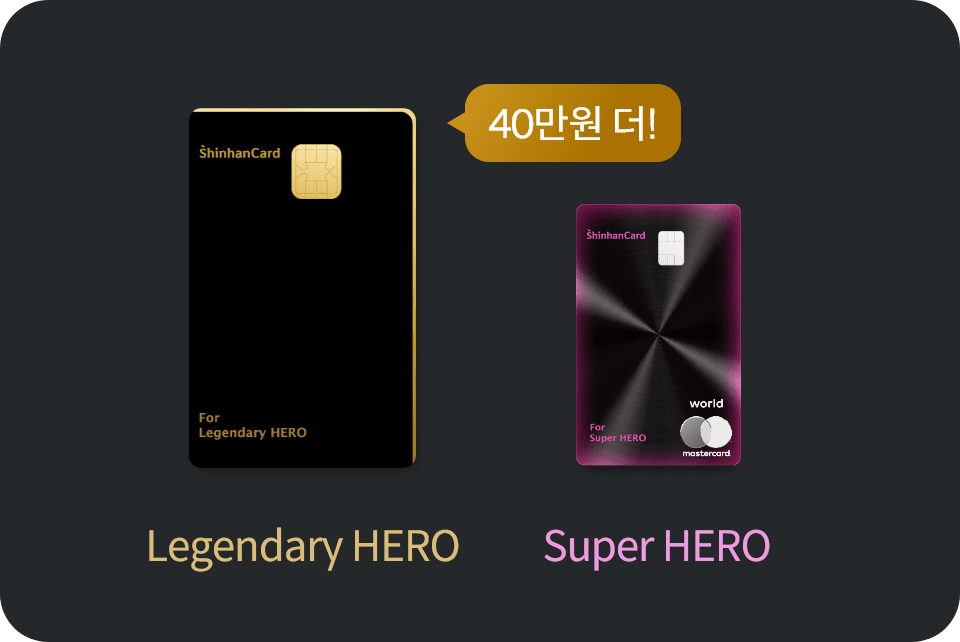
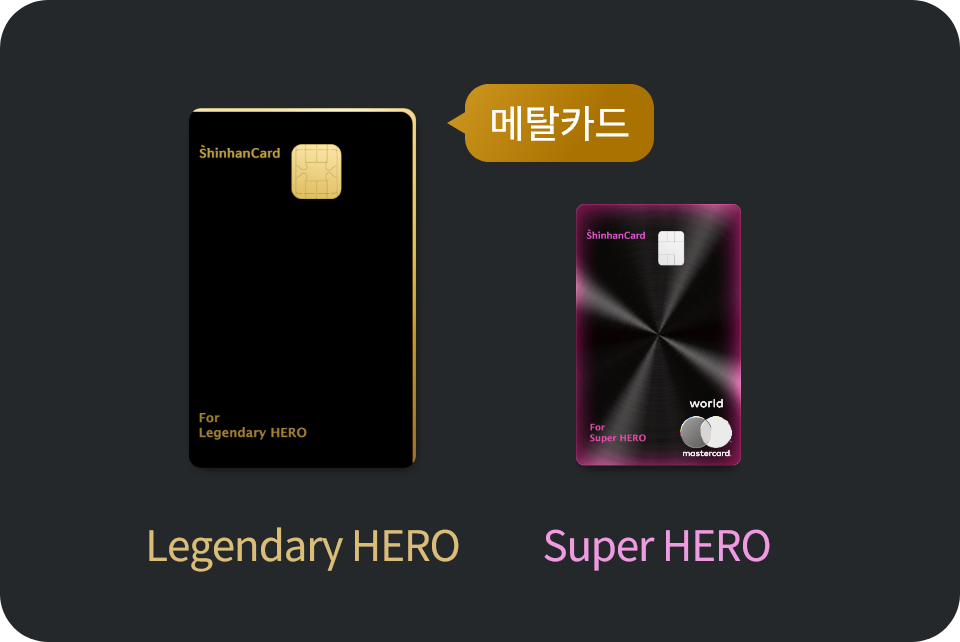
해외주식 : 히어로멤버십 등급별 혜택 수정

Changed region(s): [[0.5, 0.1246, 0.7188, 0.2492]]

diff --git a/src/assets/scss/_main.scss b/src/assets/scss/_main.scss
@@ -2905,12 +2905,28 @@ body.dark {
                     }
                 }
                 .text_box {
-                    padding-top: 20rem;
-                    font-size: 14rem;
-                    color: #ccc;
-                    text-align: center;
-                    line-height: 20rem;
-                    letter-spacing: -0.35rem;
+                    padding-top: 12rem;
+                    ul {
+                        li {
+                            margin-top: 8rem;
+                            padding-left: 9rem;
+                            position: relative;
+                            font-size: 13rem;
+                            color: #999;
+                            line-height: 18rem;
+                            letter-spacing: -0.33rem;
+                            &:before {
+                                position: absolute;
+                                top: 7rem;
+                                left: 0;
+                                width: 3rem;
+                                height: 3rem;
+                                border-radius: 50%;
+                                background: #999;
+                                content: '';
+                            }
+                        }
+                    }
                 }
             }
         }
@@ -8129,4 +8145,71 @@ body.dark .grade_list {
             }
         }
     }
+}
+
+//국내주식 - 영웅클럽
+.domestic_main {
+    header {
+        padding: 0;
+        height: 56rem;
+        background: #0d0e2a;
+        h1 {
+            padding-top: 20rem;
+            font-size: 18rem;
+            color: #ccc;
+            font-weight: 500;
+            text-align: center;
+            line-height: 26rem;
+            letter-spacing: -0.36rem;
+        }
+        .close {
+            top: 18rem;
+            button {
+                background-image: url(../../images/hc/icon_gray_close.png);
+            }
+        }
+    }
+    .main_visual {
+        position: relative;
+        height: 432rem;
+        background: #0d0e2a;
+        .sun {
+            box-shadow: 0 0 20px 10px rgba(255, 255, 0, 0.5); /* 노란색 후광 효과 */
+        }
+        .visual_bottom {
+            margin-left: -230rem;
+            position: absolute;
+            bottom: 0;
+            left: 50%;
+            width: 460rem;
+            height: 190px;
+            box-shadow: inset 0 3px 20px 0 rgba(255, 172, 236, 0.3);
+            background-image: linear-gradient(to bottom, #c862fa -26%, #994efc 67%);
+            border-radius: 100% 100% 0 0 / 100%;
+            .user_dday {
+                padding-top: 83rem;
+                font-size: 16rem;
+                color: #e7d9ff;
+                text-align: center;
+                line-height: 23rem;
+                .day_info {
+                    font-size: 18rem;
+                    color: #ffffff;
+                    .bold,
+                    .day_num {
+                        font-size: inherit;
+                        color: inherit;
+                        font-weight: bold;
+                    }
+                }
+            }
+        }
+    }
+    .glow-text {
+  color: white; /* 빛나는 텍스트 색상 */
+      text-shadow: 0 0 5px #fff, /* 가장 안쪽 빛 */
+                   0 0 10px #fff,
+                   0 0 15px #007bff, /* 파란빛 */
+                   0 0 20px #007bff;
+}
 }

diff --git a/src/html/main_domestic.html b/src/html/main_domestic.html
@@ -8,76 +8,21 @@
     <title>영웅클럽</title>
     <link rel="stylesheet" href="../assets/css/hc/default.css">
     <link rel="stylesheet" href="../assets/css/hc/swiper-bundle.min.css">
-    <style>
-        /*
-          .progress-ring {
-      width: 120px;
-      height: 120px;
-      border-radius: 50%;
-      background: conic-gradient(
-        #00f 0%,
-        #0ff 30%,
-        lightgray 30%,
-        lightgray 100%
-      );
-      display: flex;
-      align-items: center;
-      justify-content: center;
-    }
-
-    .inner-circle {
-      width: 96px;
-      height: 96px;
-      background-color: white;
-      border-radius: 50%;
-    }
-      */
-       .progress-ring {
-      width: 150px;
-      height: 150px;
-    }
-    svg {
-      transform: rotate(-90deg);
-    }
-    .bg,
-    .progress {
-      fill: none;
-      stroke-width: 12;
-    }
-    .bg {
-      stroke: #e0e0e0;
-    }
-    .progress {
-      stroke: url(#grad);
-      stroke-linecap: round;
-      stroke-dasharray: 339.292;
-      stroke-dashoffset: 339.292;
-      transition: stroke-dashoffset 1s ease-out;
-    }
-    .center-text {
-      position: absolute;
-      top: 50%;
-      left: 50%;
-      transform: translate(-50%, -50%);
-      font-weight: bold;
-      font-size: 1.2rem;
-    }
-    .wrapper {
-      position: relative;
-      width: 150px;
-      height: 150px;
-    }
-    </style>
 </head>
 <body>
-    <div class="wrap main">
+    <div class="wrap main domestic_main">
         <header>
             <h1>영웅클럽</h1>
             <div class="close"><button type="button">닫기</button></div>
         </header>
+        <div class="main_visual">
+            <div class="sun"></div>
+            <div class="visual_bottom">
+                <p class="user_dday">$키움$님과 키움이 함께한 기간은<br><span class="day_info"><span class="bold">D+<span class="day_num">1004</span>일</span> 됐어요</span></p>
+            </div>
+        </div>
         <div class="contents">
-            <p class="period">영웅님과 키움이 함께한 기간은 1년 1개월차 입니다.</p>
-            <div class="main_visual"></div>
+            <p class="period glow-text">영웅님과 키움이 함께한 기간은 1년 1개월차 입니다.</p>
 
             <dl class="main_benefit">
                 <dt onclick="popup.open('popup_monnth1');">이번달 지급 혜택내역을 확인해보세요</dt>

diff --git a/src/html/pub_guide/publish_list.html b/src/html/pub_guide/publish_list.html
@@ -435,8 +435,16 @@
                         </tr>
                         <tr class="complete">
                             <td></td>
+                            <td class="text-left"><a href="../popup_benefit_guide_s.html" target="_blank">popup_benefit_guide_s</a></td>
+                            <td class="text-left">등급별 혜택 안내 - SS 이하 유저</td>
+                            <td>바텀시트</td>
+                            <td></td>
+                            <td class="text-left">추가</td>
+                        </tr>
+                        <tr class="complete">
+                            <td></td>
                             <td class="text-left"><a href="../popup_benefit_guide.html" target="_blank">popup_benefit_guide</a></td>
-                            <td class="text-left">등급별 혜택 안내</td>
+                            <td class="text-left">등급별 혜택 안내 - SS 이상 유저</td>
                             <td>바텀시트</td>
                             <td></td>
                             <td class="text-left">수정</td>

diff --git a/src/html/popup_legendary_issuance.html b/src/html/popup_legendary_issuance.html
@@ -23,9 +23,10 @@
                 <div class="pop_body">
                     <div class="graph_img"><img src="../assets/images/hc/img_popup_card_issuance.png"></div>
                     <div class="text_box">
-                        카드리워드 지급은 1인 1카드 기준이며,<br>
-                        카드 변경은 기존 카드 해지 후,<br>
-                        신규 발급으로 처리 가능해요.
+                        <ul>
+                            <li>메탈카드 발급비 최초 1회에 한하여 지원하며 발급리워드와 같이 지급됩니다.</li>
+                            <li>카드 리워드 지급은 1인 1카드 기준이며, 카드 변경은 기존 카드 해지 후, 신규 발급으로 처리 가능합니다.</li>
+                        </ul>
                     </div>
                     <div class="btm_btns">
                         <ul>

diff --git a/src/html/popup_benefit_guide_s.html b/src/html/popup_benefit_guide_s.html
@@ -33,8 +33,8 @@
                             <div class="tab_wrapper tab_deth">
                                 <ul class="tab_list"><!-- 현재 등급 클래스 = 'my' 추가 -->
                                     <li class="a">A</li>
-                                    <li class="s">S</li>
-                                    <li class="ss my">SS</li>
+                                    <li class="s my">S</li>
+                                    <li class="ss">SS</li>
                                     <li class="sss">SSS</li>
                                     <li class="l">L</li>
                                 </ul>
